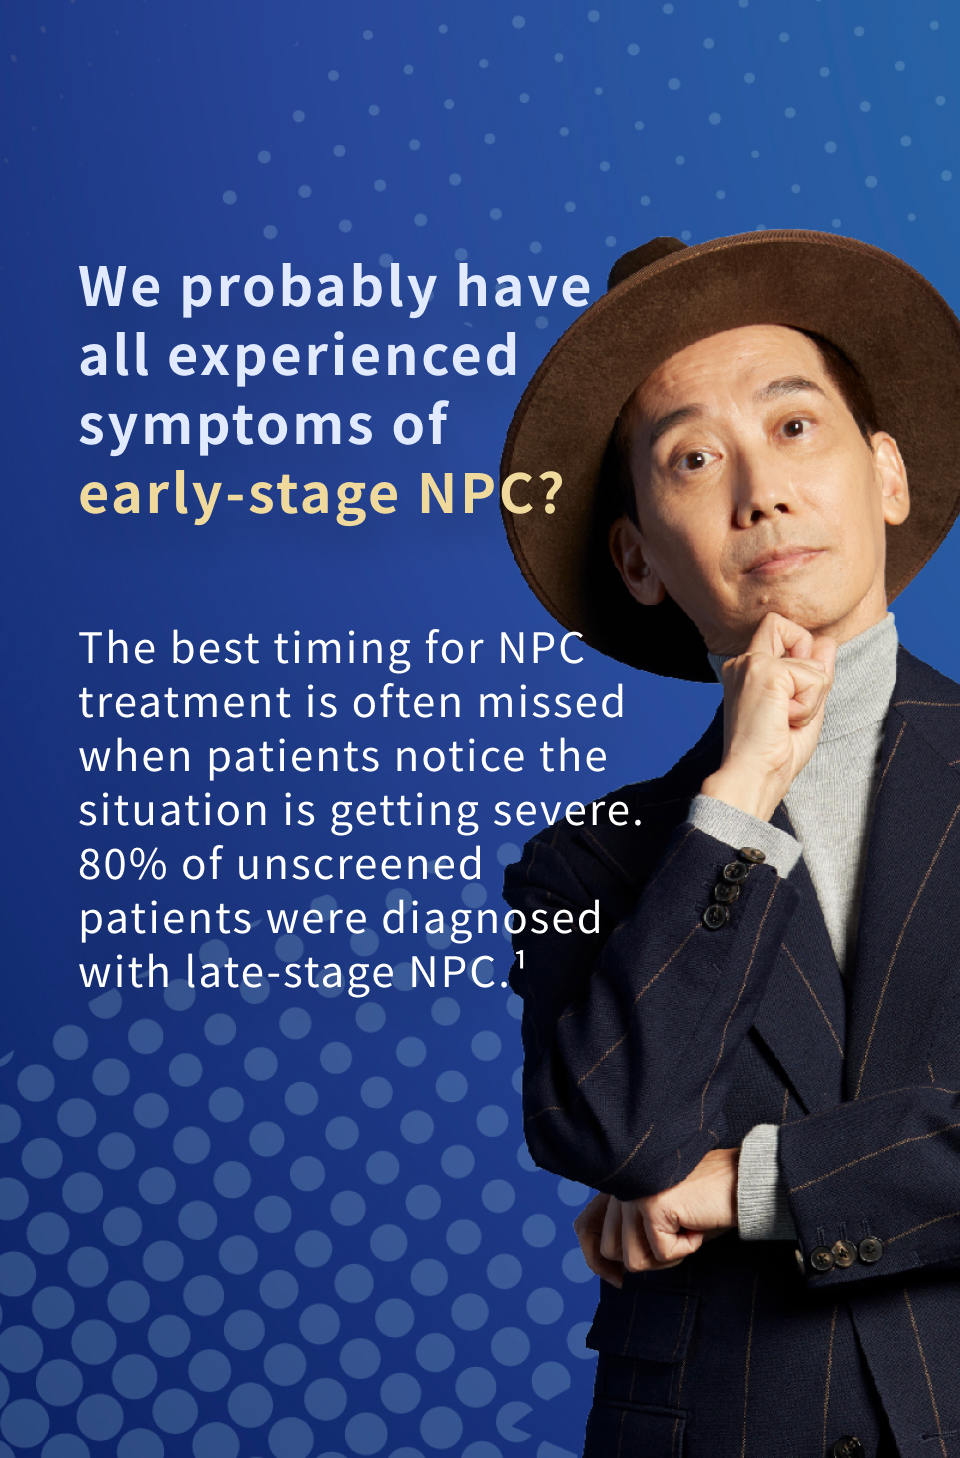
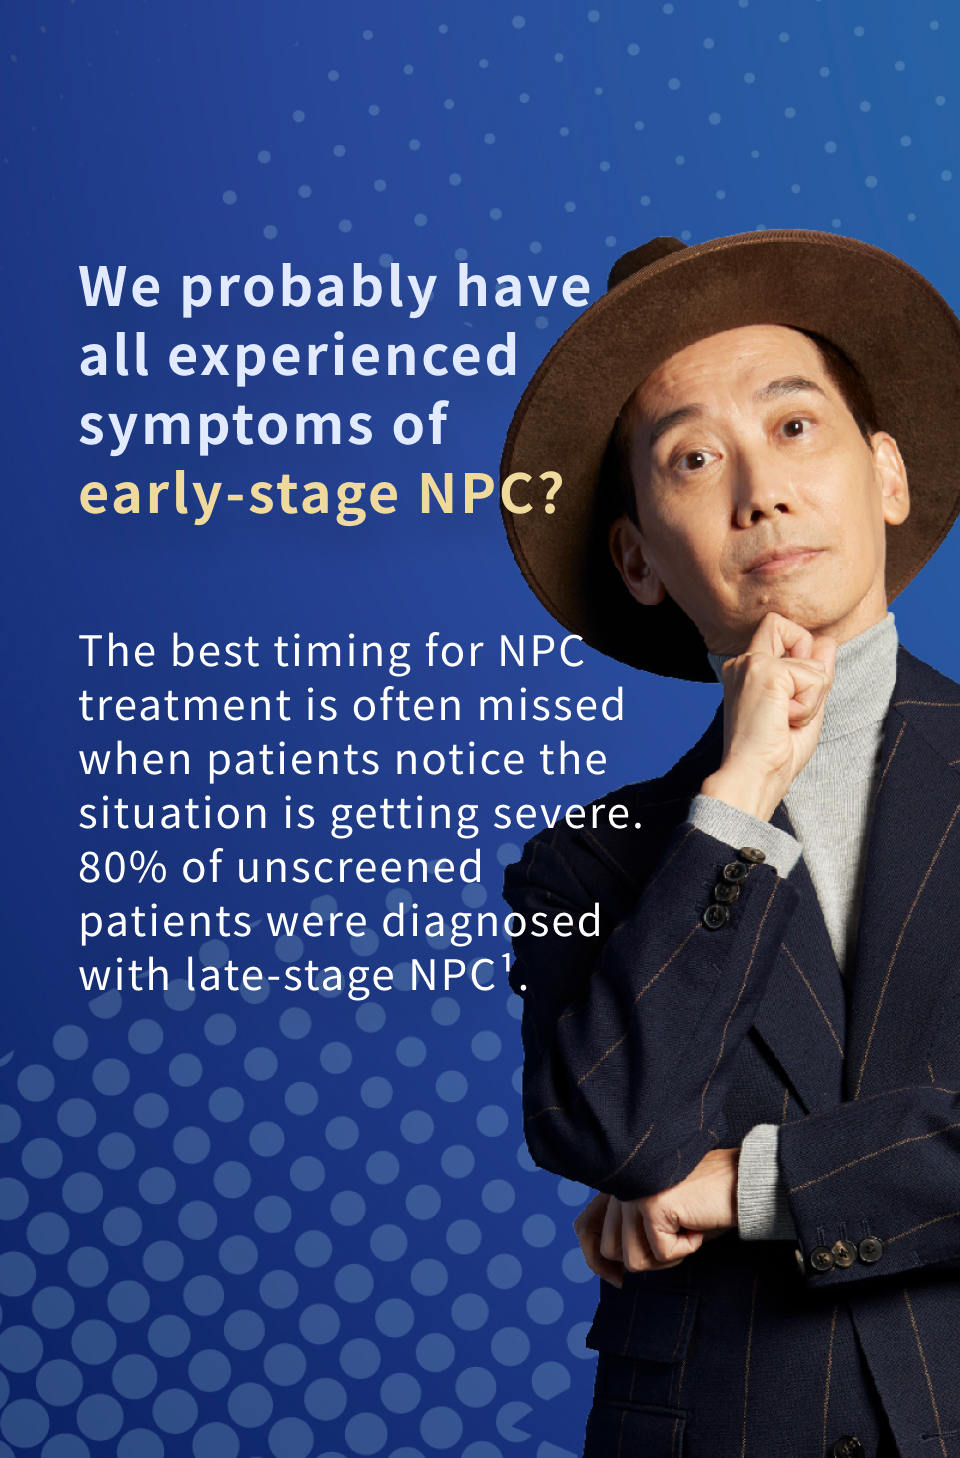
:bento: update images translation

Changed region(s): [[0.0625, 0.4321, 0.6562, 0.679]]

diff --git a/src/components/CampaignV2/Components/Header/PromotionContent.js b/src/components/CampaignV2/Components/Header/PromotionContent.js
@@ -16,7 +16,6 @@ import { toast } from 'react-toastify'
 import { CopyToClipboard } from 'react-copy-to-clipboard'
 
 const useStyles = makeStyles((theme) => ({
-  root: {},
   icon: {
     flexShrink: 0,
     [theme.breakpoints.down('xs')]: {
@@ -46,12 +45,19 @@ const useStyles = makeStyles((theme) => ({
       margin: theme.spacing(0, 0.5),
     },
   },
+  priceText: {
+    [theme.breakpoints.down('xs')]: {
+      lineHeight: 1,
+    },
+  },
 }))
 const PromotionContent = ({ whiteBg }) => {
   const classes = useStyles()
-  const { t } = useI18next()
+  const { t, language } = useI18next()
+  const isEn = language === 'en'
   const theme = useTheme()
   const isMobile = useMediaQuery(theme.breakpoints.down('xs'))
+  const isTable = useMediaQuery(theme.breakpoints.down('sm'))
 
   const handleCopy = (e) => toast.success('優惠碼複製成功！')
 
@@ -60,13 +66,13 @@ const PromotionContent = ({ whiteBg }) => {
       <Box
         color={whiteBg ? 'prophecyPrimary.main' : 'secondary.contrastText'}
         justifyContent={isMobile ? 'flex-start' : 'center'}
-        display='flex'
+        display={isMobile ? 'block' : 'flex'}
         height='100%'
-        alignItems='center'
+        alignItems={isMobile ? 'flex-start' : 'center'}
         fontWeight='fontWeightBold'
         flexWrap={isMobile ? 'wrap' : 'nowrap'}
         flexGrow={1}
-        py={1}
+        pt={isMobile ? 0.25 : 0}
         overflow='hidden'
       >
         <Box
@@ -82,8 +88,9 @@ const PromotionContent = ({ whiteBg }) => {
           />
           <Box
             pl={0.5}
-            fontSize={isMobile ? 'body2.fontSize' : 'h6.fontSize'}
+            fontSize={isTable ? 'body2.fontSize' : 'h6.fontSize'}
             component='span'
+            whiteSpace='nowrap'
           >
             {t('cp_v2.promotion.title')}
             <Hidden xsDown>
@@ -116,19 +123,45 @@ const PromotionContent = ({ whiteBg }) => {
               {PROMOTION_CODE}
             </Box>
           </CopyToClipboard>
-          <Typography component='div' noWrap>
-            {t('cp_v2.promotion.price')}
+          <Typography className={classes.priceText} component='div' noWrap>
             <Box
-              fontWeight='fontWeightLight'
-              fontSize='body2.fontSize'
+              fontWeight='fontWeightMedium'
+              fontSize={isMobile ? 'body2.fontSize' : 'body1.fontSize'}
               component='span'
-              pl={0.5}
-              mt={0.5}
             >
-              (*{t('cp_v2.promotion.tip')})
+              {t('cp_v2.promotion.price')}
             </Box>
+            {!isMobile &&
+              (isTable || isEn ? (
+                <Box
+                  fontWeight='fontWeightLight'
+                  fontSize='caption.fontSize'
+                  lineHeight={1}
+                >
+                  {t('cp_v2.promotion.tip')}
+                </Box>
+              ) : (
+                <Box
+                  fontWeight='fontWeightLight'
+                  fontSize='body2.fontSize'
+                  component='span'
+                  pl={0.5}
+                >
+                  {t('cp_v2.promotion.tip')}
+                </Box>
+              ))}
           </Typography>
         </Box>
+        {isMobile && (
+          <Box
+            fontWeight='fontWeightLight'
+            fontSize='caption.fontSize'
+            component='span'
+            lineHeight={1}
+          >
+            {t('cp_v2.promotion.tip')}
+          </Box>
+        )}
       </Box>
       {whiteBg && (
         <Button

diff --git a/src/components/CampaignV2/index.js b/src/components/CampaignV2/index.js
@@ -1,5 +1,5 @@
 import React, { useLayoutEffect, useRef } from 'react'
-import { Box, Container } from '@material-ui/core'
+import { makeStyles, createStyles, Box, Container } from '@material-ui/core'
 import Header from './Components/Header'
 import Sections from './Components/Sections'
 import ContactReference from './Components/ContactReference'
@@ -8,7 +8,18 @@ import Banner from './Components/Banner'
 import { gsap, ScrollTrigger } from '@components/CampaignV2/utils/initGsap'
 import { ImagesTranslationContext } from '@components/CampaignV2/utils/context'
 
+const useStyles = makeStyles((theme) =>
+  createStyles({
+    root: {
+      '& sup': {
+        fontSize: theme.typography.caption.fontSize,
+      },
+    },
+  })
+)
+
 const Page = ({ storyNodes, healthTipsNodes, imagesTranslation }) => {
+  const classes = useStyles()
   const el = useRef()
   const q = gsap.utils.selector(el)
   const t = useRef()
@@ -49,6 +60,7 @@ const Page = ({ storyNodes, healthTipsNodes, imagesTranslation }) => {
   return (
     <ImagesTranslationContext.Provider value={{ images: imagesTranslation }}>
       <Box
+        className={classes.root}
         id='scroll-to-top'
         ref={(current) => {
           el.current = current

diff --git a/src/components/CampaignV2/Components/Header/PromotionBar.js b/src/components/CampaignV2/Components/Header/PromotionBar.js
@@ -21,6 +21,10 @@ const useStyles = makeStyles((theme) => ({
     position: 'absolute',
     right: 0,
     top: 0,
+    [theme.breakpoints.down('xs')]: {
+      right: theme.spacing(-0.5),
+      top: theme.spacing(-0.5),
+    },
   },
 }))
 
